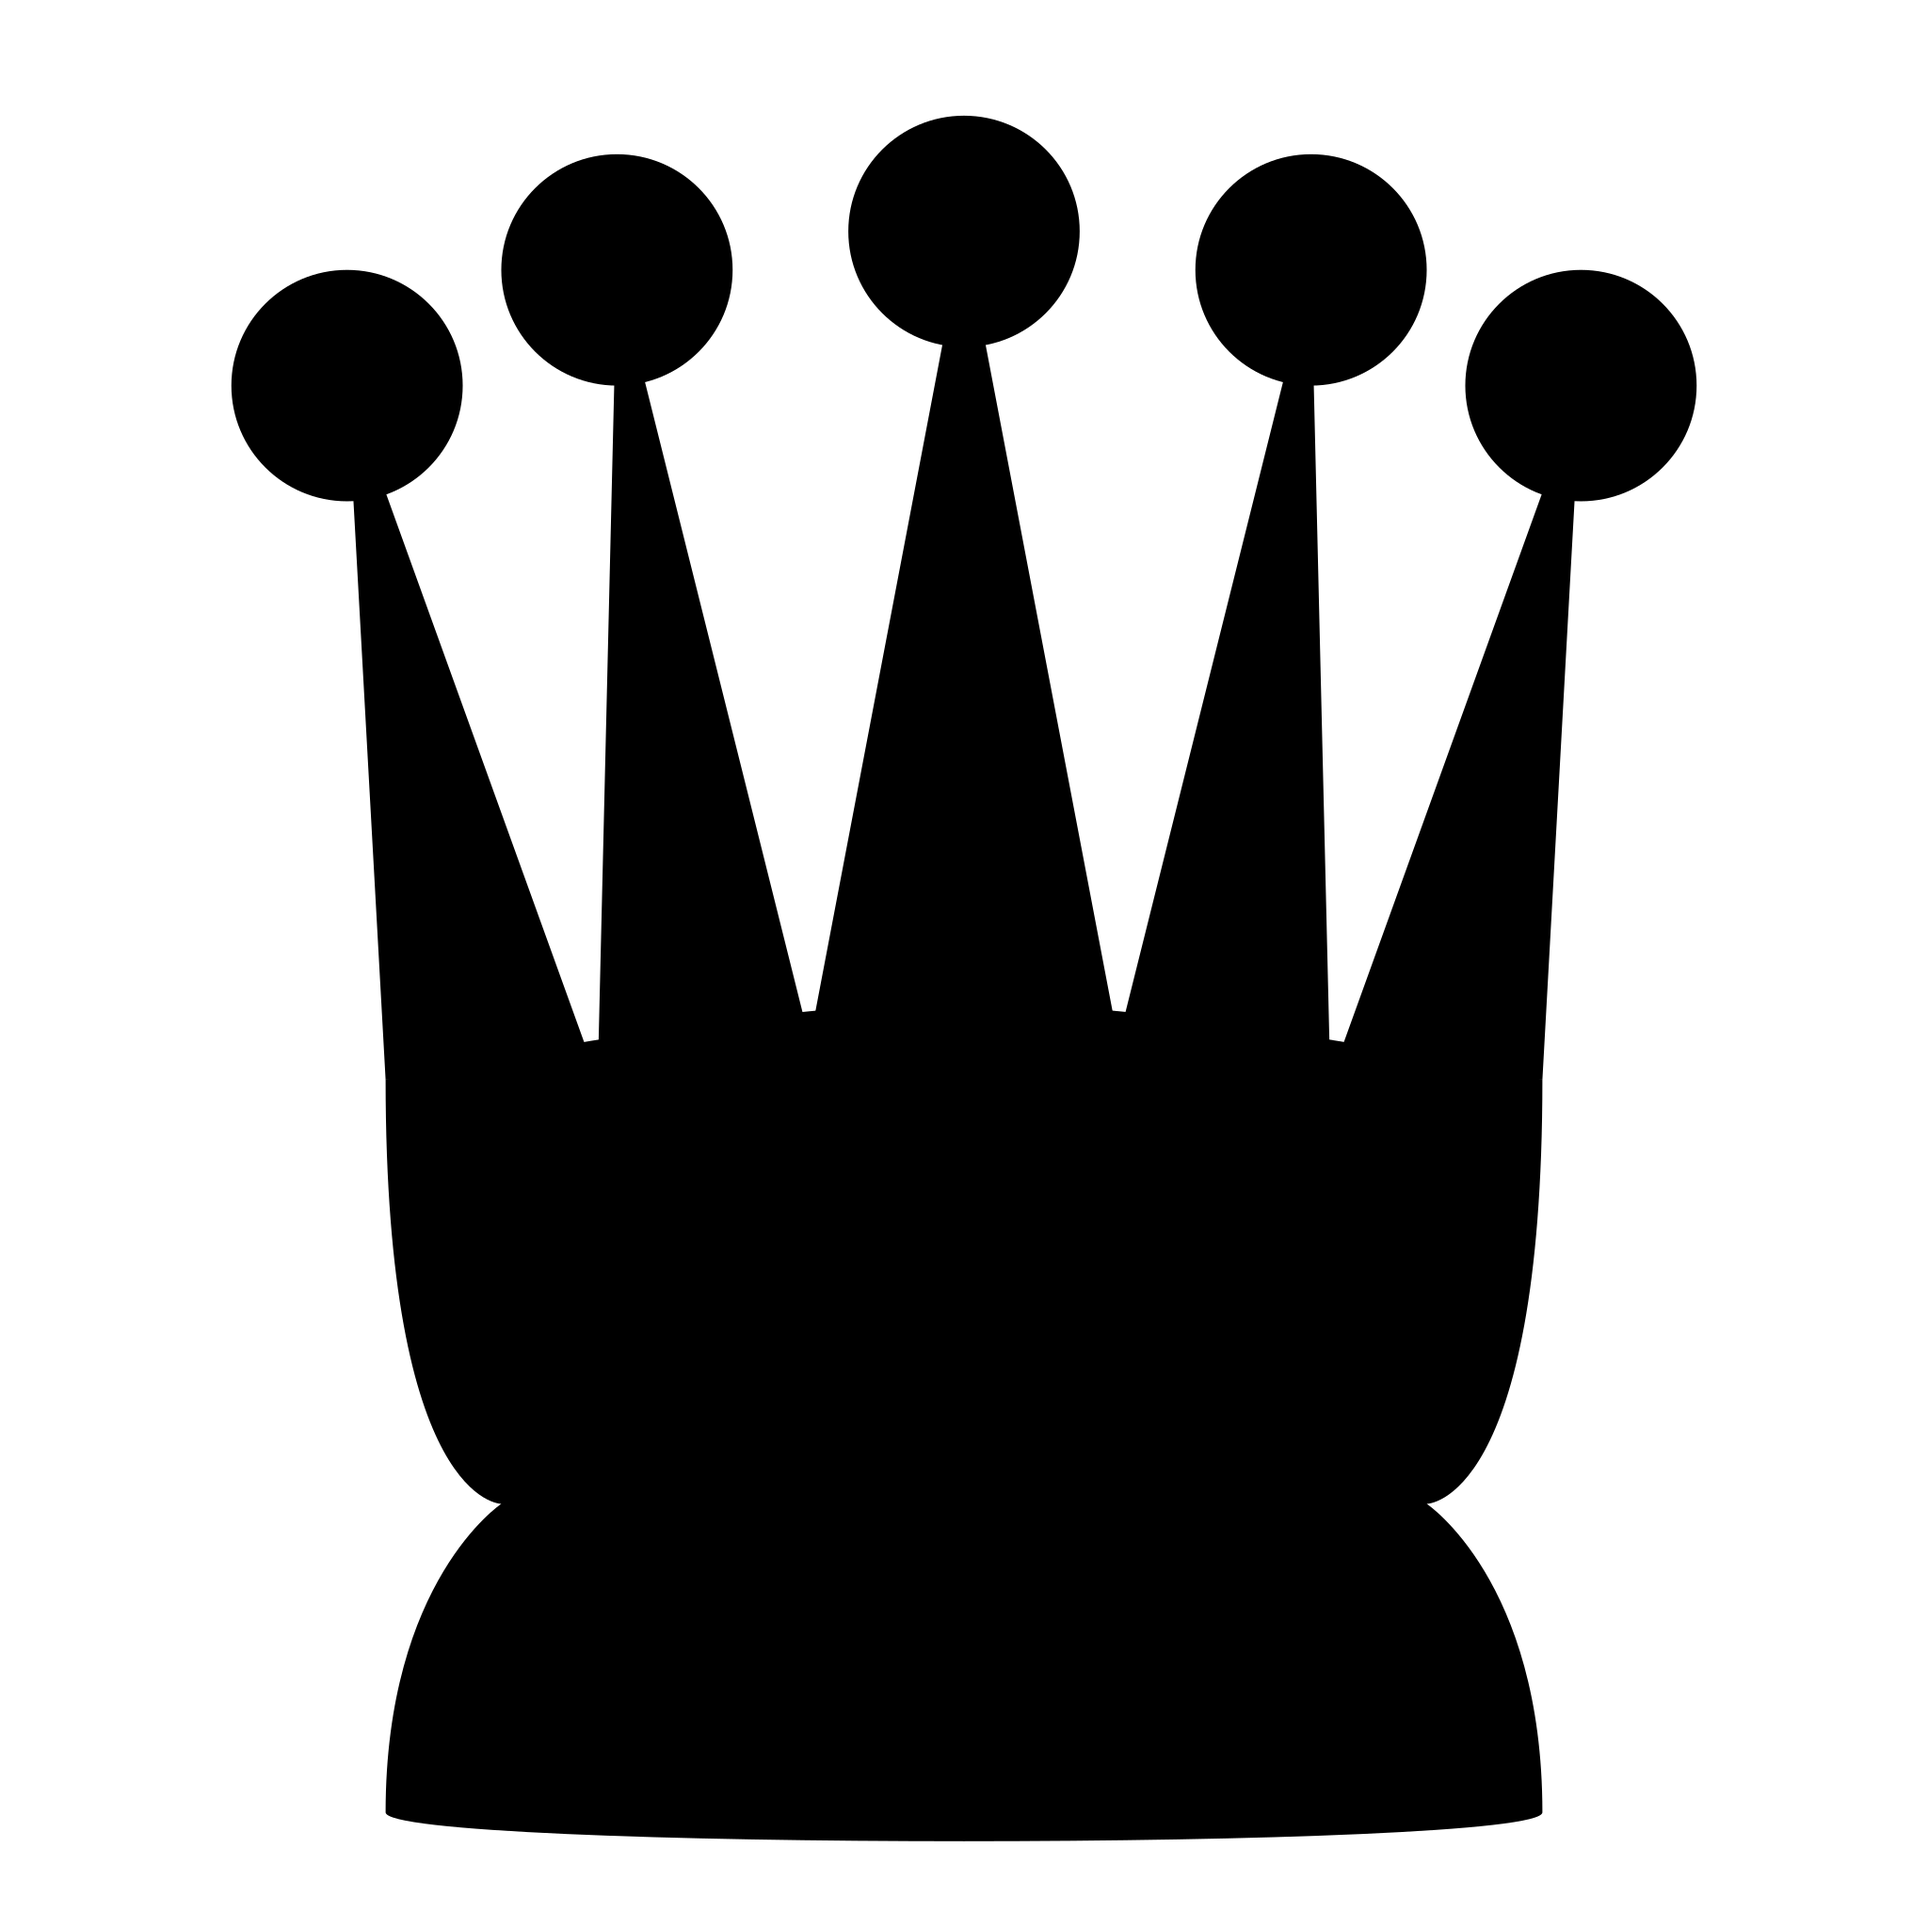
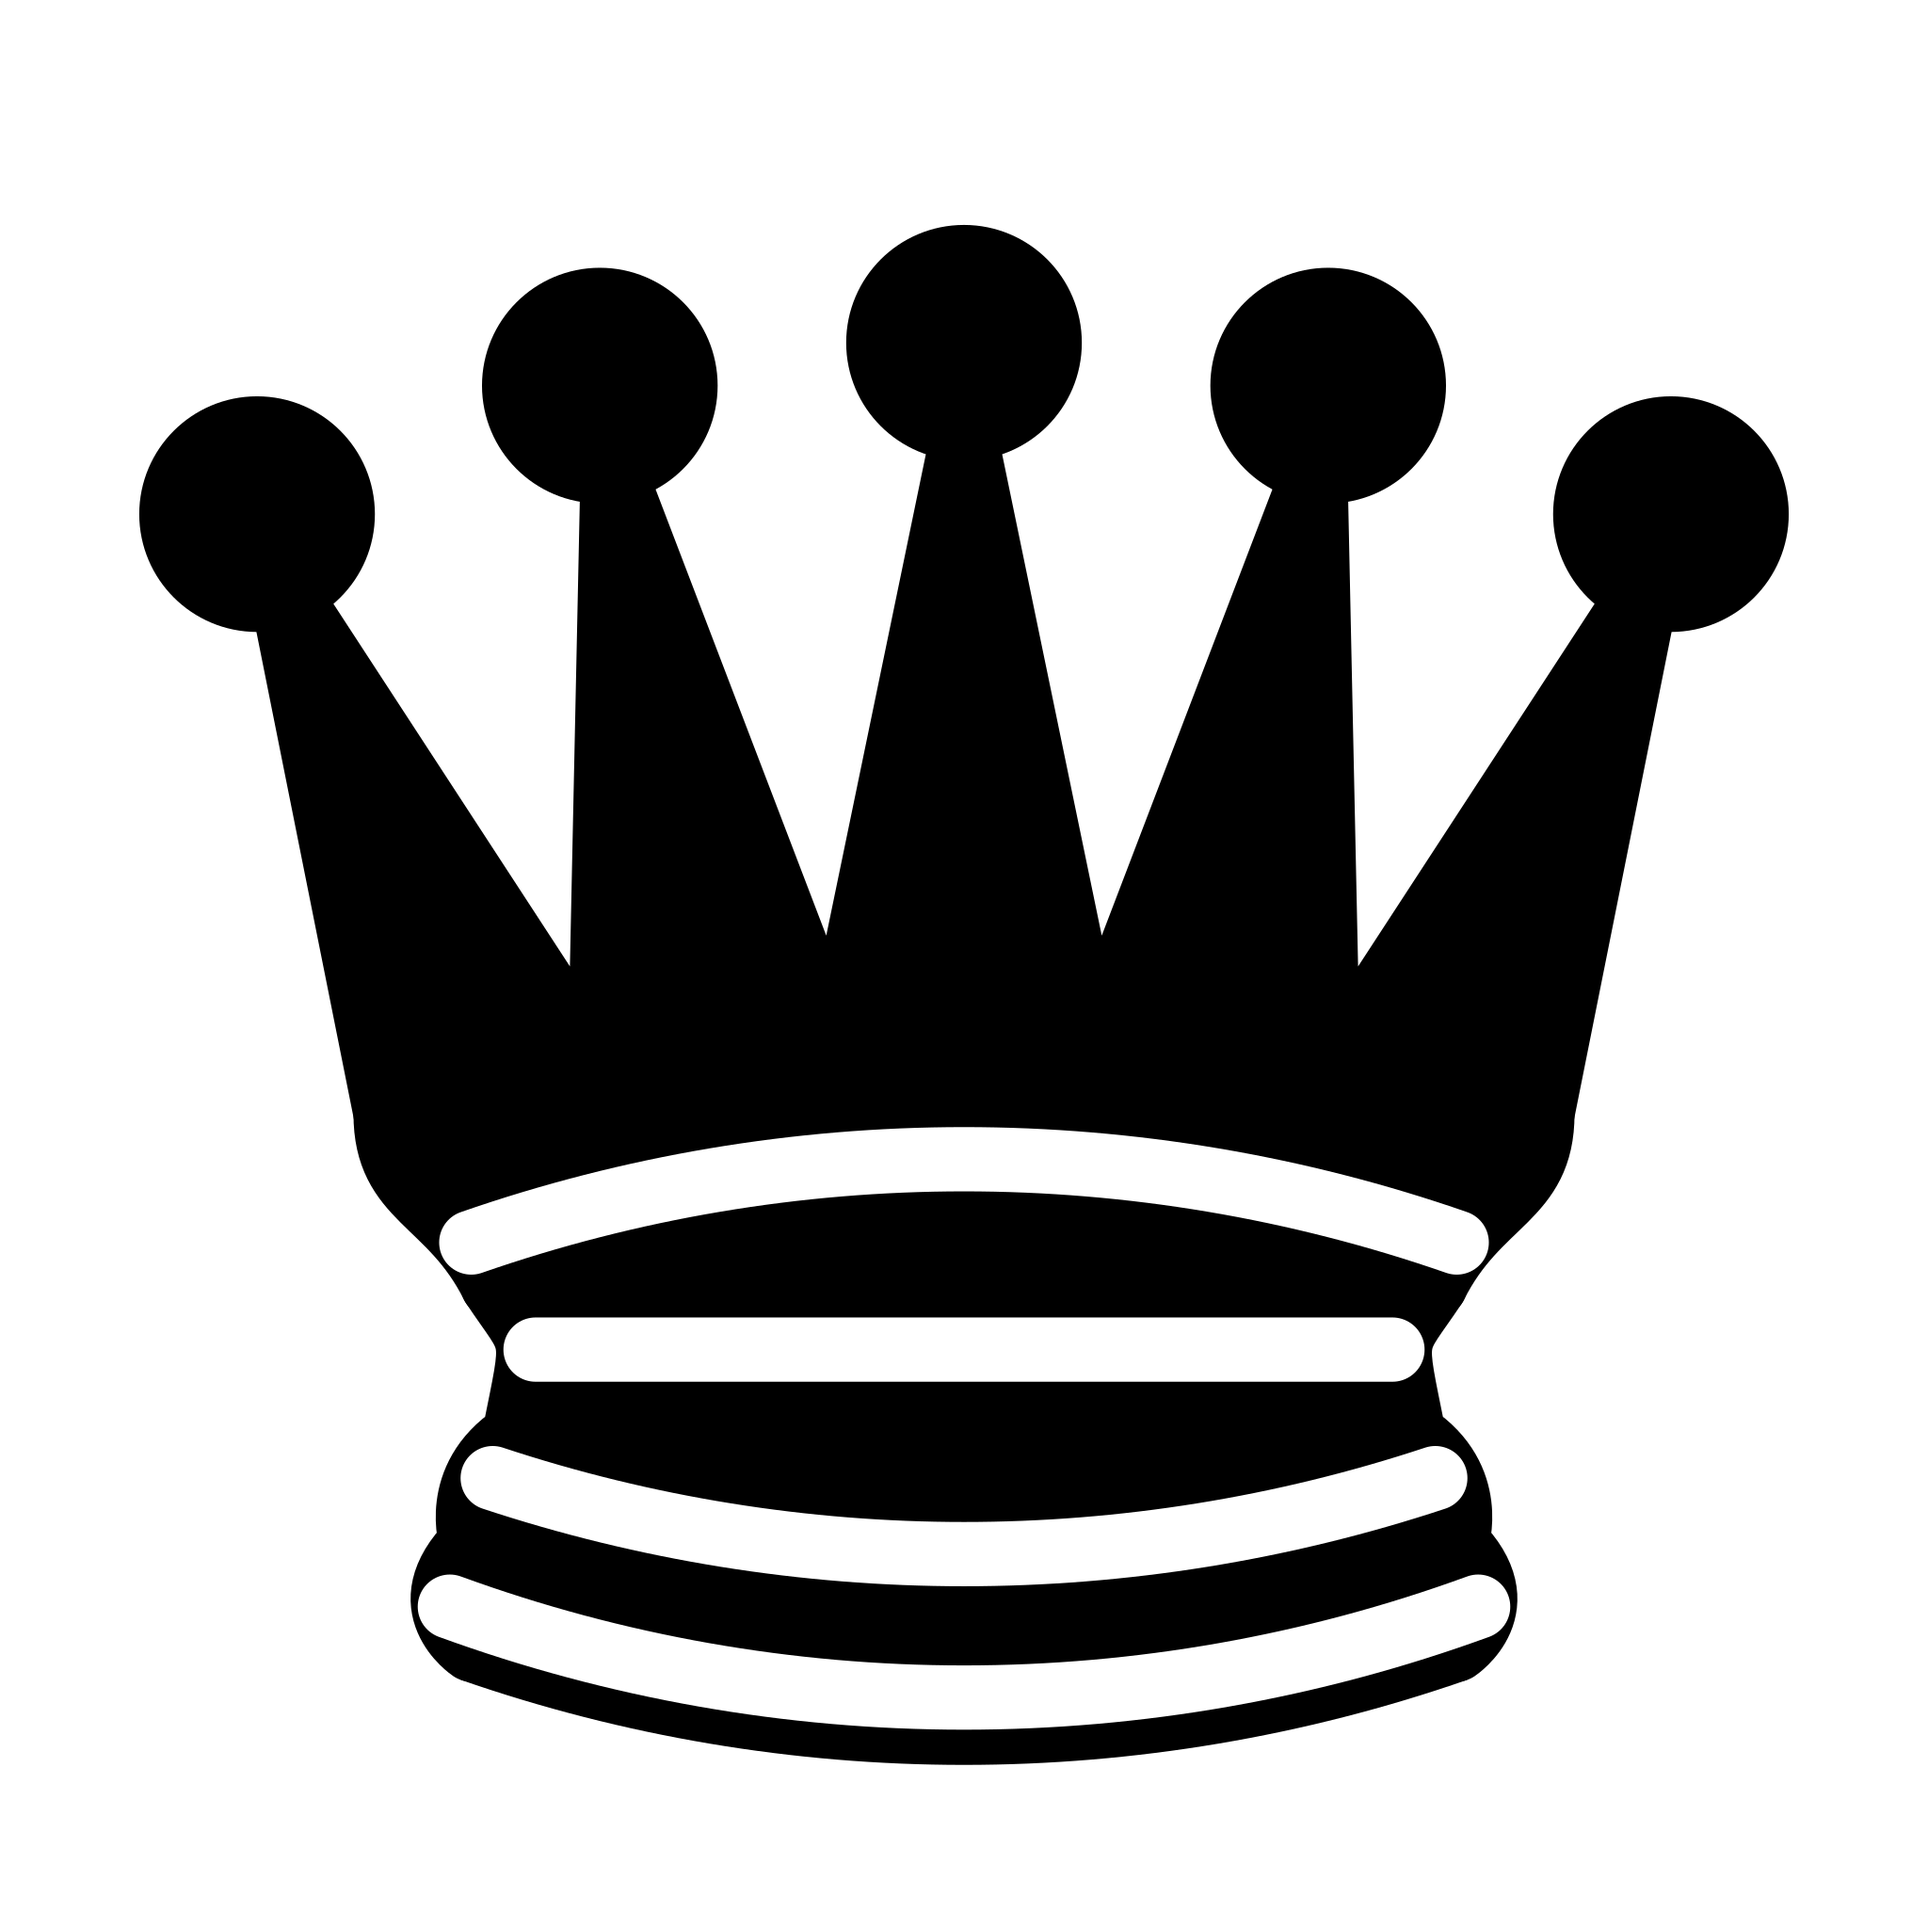
feat(input): :sparkles: implement piece movement handling

diff --git a/src/input.rs b/src/input.rs
@@ -1,0 +1,69 @@
+use crate::{config::BoardConfig, state::GameState};
+use macroquad::{
+    color::YELLOW,
+    input::{MouseButton, is_mouse_button_pressed, mouse_position},
+    shapes::draw_rectangle_lines,
+};
+use shakmaty::{Chess, File, Position, Rank, Square};
+
+/// Converts mouse coordinates to chess square
+pub fn mouse_square(config: &BoardConfig) -> Option<Square> {
+    let (mx, my) = mouse_position();
+    let x = mx - config.offset.x;
+    let y = my - config.offset.y;
+
+    if x < 0.0 || y < 0.0 || x >= config.square_size * 8.0 || y >= config.square_size * 8.0 {
+        return None;
+    }
+
+    let file = File::ALL.get((x / config.square_size) as usize)?;
+    let rank = Rank::ALL.get(7 - (y / config.square_size) as usize)?;
+    Some(Square::from_coords(*file, *rank))
+}
+
+/// Handles mouse input - returns (new_selected, new_position)
+pub fn handle_mouse_input(
+    position: &Chess,
+    selected: Option<Square>,
+    config: &BoardConfig,
+) -> (Option<Square>, Option<Chess>) {
+    if !is_mouse_button_pressed(MouseButton::Left) {
+        return (selected, None);
+    }
+
+    let Some(square) = mouse_square(config) else {
+        return (selected, None);
+    };
+
+    match selected {
+        Some(from) => (None, try_move(position, from, square)),
+        None => (try_select(position, square), None),
+    }
+}
+
+/// Try to make a move
+fn try_move(position: &Chess, from: Square, to: Square) -> Option<Chess> {
+    position
+        .legal_moves()
+        .iter()
+        .find(|mv| mv.from() == Some(from) && mv.to() == to)
+        .map(|mv| position.clone().play(mv).unwrap())
+}
+
+/// Try to select a piece
+fn try_select(position: &Chess, square: Square) -> Option<Square> {
+    position
+        .board()
+        .piece_at(square)
+        .filter(|piece| piece.color == position.turn())
+        .map(|_| square)
+}
+
+/// Draw selection highlight
+pub fn draw_selection(state: &GameState, config: &BoardConfig) {
+    if let Some(square) = state.selected {
+        let x = config.offset.x + square.file() as u8 as f32 * config.square_size;
+        let y = config.offset.y + (7 - square.rank() as u8) as f32 * config.square_size;
+        draw_rectangle_lines(x, y, config.square_size, config.square_size, 5.0, YELLOW);
+    }
+}

diff --git a/src/piece.rs b/src/piece.rs
@@ -1,0 +1,46 @@
+use crate::config::BoardConfig;
+use macroquad::{
+    color::WHITE,
+    math::Vec2,
+    texture::{DrawTextureParams, Texture2D, draw_texture_ex, load_texture},
+};
+use shakmaty::{Chess, Color, Piece, Position, Role, Square};
+use std::collections::HashMap;
+
+/// Loads all chess piece textures
+pub async fn load_piece_textures() -> HashMap<Piece, Texture2D> {
+    let mut textures = HashMap::new();
+
+    for role in Role::ALL {
+        for (color, prefix) in [(Color::White, "w"), (Color::Black, "b")] {
+            let path = format!("assets/pieces/{}{}.png", prefix, role.upper_char());
+            let piece = Piece { role, color };
+            textures.insert(piece, load_texture(&path).await.unwrap());
+        }
+    }
+
+    textures
+}
+
+/// Draws all pieces on the board
+pub fn draw_pieces(position: &Chess, textures: &HashMap<Piece, Texture2D>, config: &BoardConfig) {
+    for square in Square::ALL {
+        if let Some(piece) = position.board().piece_at(square) {
+            if let Some(texture) = textures.get(&piece) {
+                let x = config.offset.x + square.file() as u8 as f32 * config.square_size;
+                let y = config.offset.y + (7 - square.rank() as u8) as f32 * config.square_size;
+
+                draw_texture_ex(
+                    texture,
+                    x,
+                    y,
+                    WHITE,
+                    DrawTextureParams {
+                        dest_size: Some(Vec2::new(config.square_size, config.square_size)),
+                        ..Default::default()
+                    },
+                );
+            }
+        }
+    }
+}

diff --git a/src/config.rs b/src/config.rs
@@ -3,7 +3,7 @@ use macroquad::{
     window::{Conf, screen_height, screen_width},
 };
 
-/// Board layout configuration.
+/// Board layout configuration
 pub struct BoardConfig {
     pub square_size: f32,
     pub offset: Vec2,
@@ -11,16 +11,31 @@ pub struct BoardConfig {
 
 impl BoardConfig {
     pub fn new() -> Self {
-        let square_size = (screen_height().min(screen_width()) - 80.0) / 8.0;
-        let offset = Vec2::new(
-            (screen_width() - square_size * 8.0) / 2.0,
-            (screen_height() - square_size * 8.0) / 2.0,
-        );
+        Self::from_screen()
+    }
+
+    pub fn update(&mut self) {
+        *self = Self::from_screen();
+    }
+
+    fn from_screen() -> Self {
+        let size = screen_height().min(screen_width()) * 0.9;
+        let square_size = size / 8.0;
+        let board_size = square_size * 8.0;
 
         Self {
             square_size,
-            offset,
+            offset: Vec2::new(
+                (screen_width() - board_size) * 0.5,
+                (screen_height() - board_size) * 0.5,
+            ),
         }
+    }
+}
+
+impl Default for BoardConfig {
+    fn default() -> Self {
+        Self::new()
     }
 }
 
@@ -30,7 +45,6 @@ pub fn window_conf() -> Conf {
         window_title: "Zugzwang".into(),
         window_width: 1024,
         window_height: 768,
-        window_resizable: false,
         ..Default::default()
     }
 }

diff --git a/src/main.rs b/src/main.rs
@@ -1,22 +1,27 @@
 mod board;
 mod config;
-mod pieces;
+mod input;
+mod piece;
+mod state;
 
 use crate::config::window_conf;
 use macroquad::prelude::*;
 
 #[macroquad::main(window_conf)]
 async fn main() {
-    let config = config::BoardConfig::new();
-
-    let textures = pieces::load_piece_textures().await;
-    let position = shakmaty::Chess::default();
+    let mut config = config::BoardConfig::new();
+    let mut state = state::GameState::default();
+    let textures = piece::load_piece_textures().await;
 
     loop {
         clear_background(DARKGRAY);
 
+        config.update();
+        state.update(&config);
+
         board::draw_board(&config);
-        pieces::draw_pieces(&position, &textures, &config);
+        piece::draw_pieces(&state.position, &textures, &config);
+        input::draw_selection(&state, &config);
 
         next_frame().await;
     }

diff --git a/src/state.rs b/src/state.rs
@@ -1,0 +1,20 @@
+use crate::{config::BoardConfig, input::handle_mouse_input};
+use shakmaty::{Chess, Square};
+
+#[derive(Default)]
+pub struct GameState {
+    pub position: Chess,
+    pub selected: Option<Square>,
+}
+
+impl GameState {
+    pub fn update(&mut self, config: &BoardConfig) {
+        let (new_selected, new_position) =
+            handle_mouse_input(&self.position, self.selected, config);
+
+        self.selected = new_selected;
+        if let Some(pos) = new_position {
+            self.position = pos;
+        }
+    }
+}

diff --git a/README.md b/README.md
@@ -1,3 +1,6 @@
 # Zugzwang
 
 **Zugzwang** is a minimalist cross-platform chess game developed in Rust using macroquad.
+
+## Assets
+Chess piece images by [Cburnett](https://commons.wikimedia.org/wiki/User:Cburnett) - Licensed under Creative Commons BY-SA 3.0
